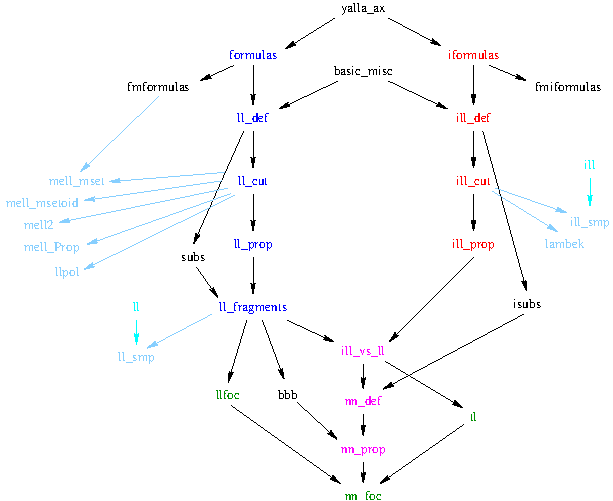
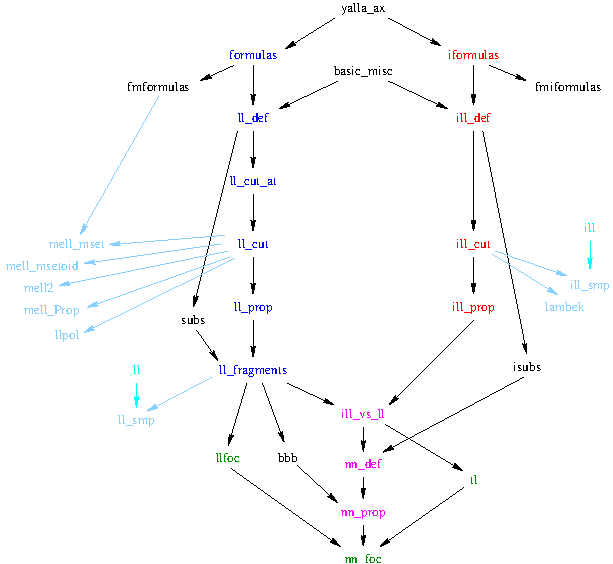
update documentation

diff --git a/yalla/README.md b/yalla/README.md
@@ -4,8 +4,8 @@
 
 
 
-If you have any trouble, question or request for extension, if you need help to write interfaces,
-please contact:  `Olivier.Laurent@ens-lyon.fr`
+*If you have any trouble, question or request for extension, if you need help to write interfaces,
+please contact:  `Olivier.Laurent@ens-lyon.fr`*
 
 
 This library defines notions of proofs for various fragments of linear logic.
@@ -16,8 +16,7 @@ This allows us to provide a study of proofs which is compatible with the computa
 
 Parameters in the definition of proofs allow the user:
 
-* to include the `mix0` rule or not;
-* to include the `mix2` rule or not;
+* to include some `mix` rules or not;
 * to define arbitrary axioms
      (which allows in particular to work with open proofs);
 * to use the usual exchange rule (arbitrary permutations)
@@ -33,76 +32,80 @@ It is possible to hide the explicit exchange rule by introducing multisets for s
 
 Main files:
 
-* formulas.v(o):
+* formulas.v:
     definition of (classical) linear logic formulas
-* fmformulas.v(o):
+* fmformulas.v:
     additional structure on formulas (order, multiset)
-* ll_def.v(o):
+* ll_def.v:
     main definitions for classical linear logic (LL)
     and properties not requiring cut admissibility
-* subs.v(o):
+* subs.v:
     susbtitution for LL
-* ll_cut.v(o):
+* ll_cut_at.v:
+    cut admissibility for atomic cut formulas in LL
+* ll_cut.v:
     cut admissibility properties for LL
-* ll_prop.v(o):
+* ll_prop.v:
     properties of LL relying on cut admissibility
-* ll_fragments.v(o):
+* ll_fragments.v:
     definitions of some common fragments of LL
-* iformulas.v(o):
+* iformulas.v:
     definition of intuitionistic linear logic formulas
-* fmiformulas.v(o):
+* fmiformulas.v:
     additional structure on intuitionistic formulas (order, multiset)
-* ill_def.v(o):
+* ill_def.v:
     main defintions for intuitionistic linear logic (ILL)
     (Lambek calculus included when permutation is equality:
        ipperm P = false)
-* isubs.v(o):
+* isubs.v:
     susbtitution for ILL
-* ill_cut.v(o):
+* ill_cut.v:
     cut admissibility properties for ILL
-* ill_prop.v(o):
+* ill_prop.v:
     properties of ILL relying on cut admissibility
-* ill_vs_ll.v(o):
+* ill_vs_ll.v:
     relations between ILL and LL
-* nn_def.v(o):
+* nn_def.v:
     main properties of double-negation translations from LL to ILL
-* nn_prop.v(o):
+* nn_prop.v:
     properties of double-negation translations from LL to ILL
     related to expressiveness analysis
-* llfoc.v(o):
+* llfoc.v:
     definitions of focused systems
     and proof of strong focusing from weak focusing
-* nn_foc.v(o):
+* nn_foc.v:
     double-negation-based proof of weak focusing
 
 Example files for interfaces:
 
-* mell2.v(o):
+* mell2.v:
     unit-free MELL with mix2
-* mell_Prop.v(o):
+* mell_Prop.v:
     unit-free MELL with proofs in Prop (i.e. provability only)
-* lambek.v(o):
+* lambek.v:
     a variant of Lambek calculus
-* mell_mset.v(o):
+* mell_mset.v:
     multiset-based MELL (no exchange rule)
-* mell_msetoid.v(o):
+* mell_msetoid.v:
     setoid multiset-based MELL
-* llpol.v(o):
+* llpol.v:
     polarized fragment of LL
-* tl.v(o):
+* tl.v:
     tensor logic
-* ll_smp.v(o):
-    interface with the microyalla self-contained version of LL
-* ill_smp.v(o):
-    interface with the microyalla self-contained version of ILL
+* ll_smp.v:
+    interface for the standard version of LL
+* ill_smp.v:
+    interface for the standard version of ILL
 
 Other files:
 
-* bbb.v(o):
+* bbb.v:
     study of LL extended with the equation: bot = oc bot
-* yalla_ax.v(o):
+* yalla_ax.v:
     specific instances of axioms on atoms used in the library
     (this guarantees consistency of this set of axioms)
+* basic_misc.v:
+    basic definitions and tactics
 
 The precise file dependencies are pictured in the [dependency graph](dependencies.png).
 

diff --git a/microyalla/README.md b/microyalla/README.md
@@ -5,3 +5,22 @@
 Contains definitions of linear logic systems (classical linear logic and intuitionistic linear logic) compatible with the [Yalla library](https://perso.ens-lyon.fr/olivier.laurent/yalla/).
 
 To be used as a kernel library for certifying proofs in linear logic, typically as certificates for proofs generated by automatic provers.
+
+* microll.v:
+    definition of LL based on applying a transposition function for the exchange rule
+* micro_macro_ll.v:
+    emdedding of microll into yalla
+* nanoll.v:
+    definition of LL based on a transposition exchange rule
+* nano_macro_ll.v:
+    emdedding of nanoll into yalla
+* microill.v:
+    definition of ILL based on applying a transposition function for the exchange rule
+* micro_macro_ill.v:
+    emdedding of microill into yalla
+* nanoill.v:
+    definition of ILL based on a transposition exchange rule
+* nano_macro_ill.v:
+    emdedding of nanoill into yalla
+* transp_perm.v:
+    properties of the transposition function

diff --git a/README.md b/README.md
@@ -10,4 +10,9 @@ See the [more detailed README](yalla/README.md) for more informations.
 
 ----
 
-Many thanks to Damien Pous and Christian Doczkal for important discussions, suggestions and help.
+## Main contributors
+
+* Olivier Laurent
+* Christophe Lucas
+
+Many thanks also to Damien Pous and Christian Doczkal for important discussions, suggestions and help.
